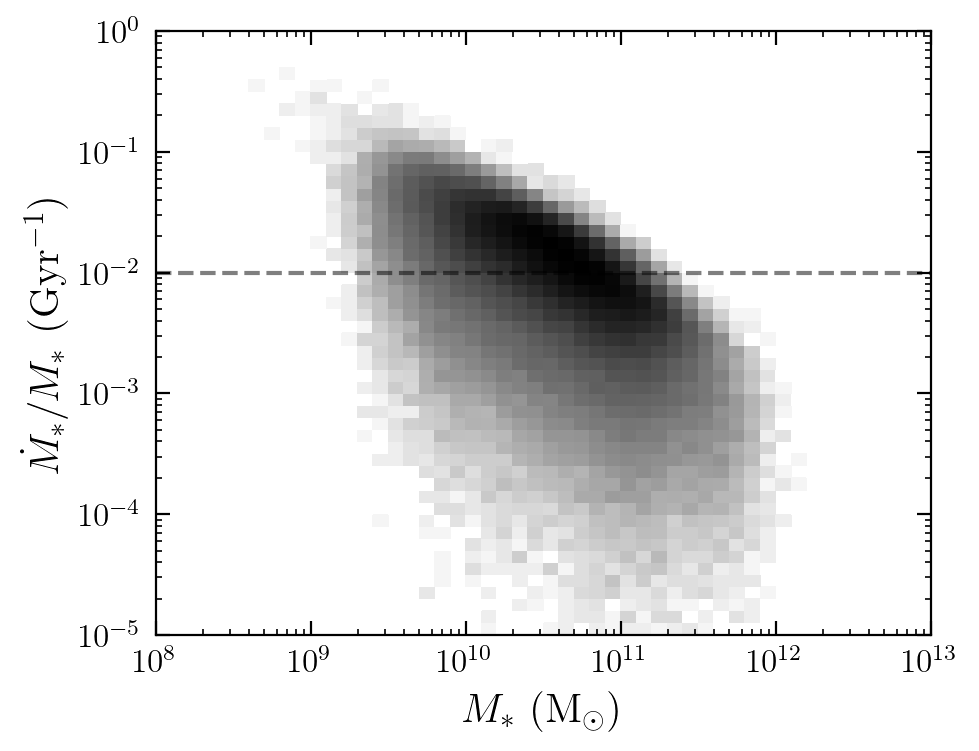
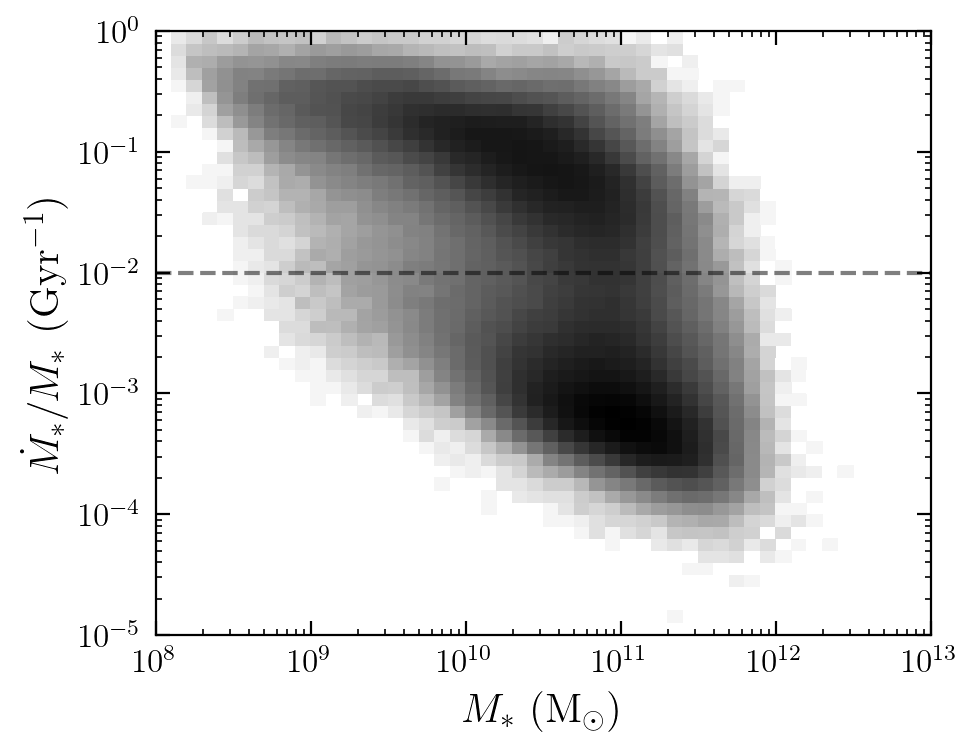
added project2

Changed region(s): [[0.1532, 0.0306, 0.8274, 0.8269], [0.7354, 0.7963, 0.7661, 0.8269]]

diff --git a/project2-UniverseMachine/README.md b/project2-UniverseMachine/README.md
@@ -488,11 +488,13 @@ obs_z = obs_data['modelMag_z']
 obs_gz = obs_g - obs_z
 obs_sfr = obs_data['sfr_tot_p50']
 obs_m = 10**obs_data['lgm_tot_p50']
-obs_ssfr = obs_sfr*1e9 / obs_m # in Gyr^-1
+obs_ssfr = 10**(obs_sfr)*1e9 / obs_m # in Gyr^-1
 ```
 
-    <ipython-input-18-9b8d01fb8b91>:7: RuntimeWarning: divide by zero encountered in true_divide
-      obs_ssfr = obs_sfr*1e9 / obs_m # in Gyr^-1
+    <ipython-input-37-c73910421a18>:7: RuntimeWarning: divide by zero encountered in true_divide
+      obs_ssfr = 10**(obs_sfr)*1e9 / obs_m # in Gyr^-1
+    <ipython-input-37-c73910421a18>:7: RuntimeWarning: invalid value encountered in true_divide
+      obs_ssfr = 10**(obs_sfr)*1e9 / obs_m # in Gyr^-1
 
 
 
@@ -519,7 +521,26 @@ plt.show()
 
 
 ```python
-x = 10**np.arange(9.0,11.41,0.2)
+fig, ax0 = plt.subplots(figsize=(5,4), sharex=True, sharey=True)
+
+ax0.hist2d(obs_m, obs_gz, bins=[np.logspace(8,13,51), np.linspace(0,3,51)],
+    norm=mpl.colors.LogNorm(), cmap='Greys')
+
+ax0.set_xscale('log')
+# ax0.set_yscale('log')
+ax0.set_xlabel(r'$M_*\ ({\rm M_\odot})$')
+ax0.set_ylabel(r'$\rm SDSS\ g-z$')
+
+plt.show()
+```
+
+
+![png](output_26_0.png)
+
+
+
+```python
+x = 10**np.arange(9,11.41,0.2)
 obs_gz_16 = []
 obs_gz_50 = []
 obs_gz_84 = []
@@ -564,7 +585,7 @@ ax0.fill_between(x, gr_c_16, gr_c_84, facecolor='c', edgecolor=None, alpha=0.2)
 ax0.plot(x[:-1], gr_s_50[:-1], c='m', ls='--', label=r'$\rm Satellite$')
 ax0.fill_between(x[:-1], gr_s_16[:-1], gr_s_84[:-1], facecolor='m', edgecolor=None, alpha=0.2)
 
-ax0.plot(obs_x, obs_gz_50, c='k', lw=3, ls='--', alpha=0.5, label=r'$\rm NYU\ VAGC$')
+ax0.plot(obs_x, obs_gz_50, c='k', lw=3, ls='--', alpha=0.5, label=r'$\rm SDSS\ DR8$')
 ax0.fill_between(obs_x, obs_gz_16, obs_gz_84, facecolor='k', edgecolor=None, alpha=0.1)
 ax0.plot(obs_x, obs_gz_sf_50, c='b', lw=3, ls='--', alpha=0.5)
 ax0.fill_between(obs_x, obs_gz_sf_16, obs_gz_sf_84, facecolor='b', edgecolor=None, alpha=0.1)
@@ -578,7 +599,7 @@ ax0.set_xscale('log')
 ax0.set_xlabel(r'$M_{*}\ ({\rm M_\odot})$')
 ax0.set_ylabel(r'$\rm SDSS\ g-z$')
 ax0.set_xlim(1e8, 1e12)
-ax0.set_ylim(0.6, 1.6)
+ax0.set_ylim(0.6, 2.0)
 ax0.legend()
 
 # plt.savefig('g_z_m.png')
@@ -586,7 +607,7 @@ plt.show()
 ```
 
 
-![png](output_27_0.png)
+![png](output_28_0.png)
 
 
 ## Summary
